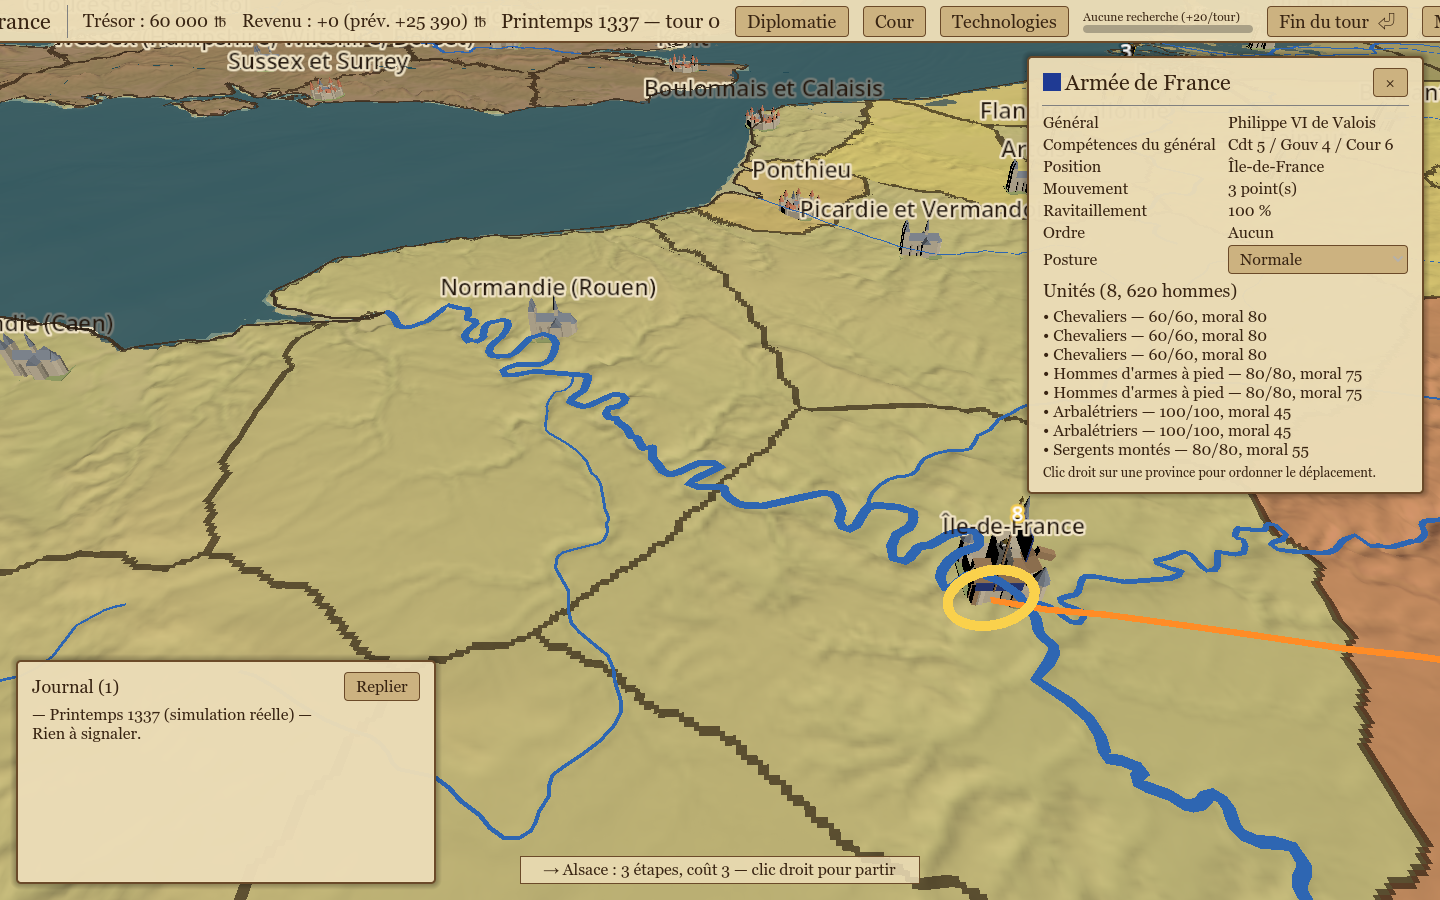
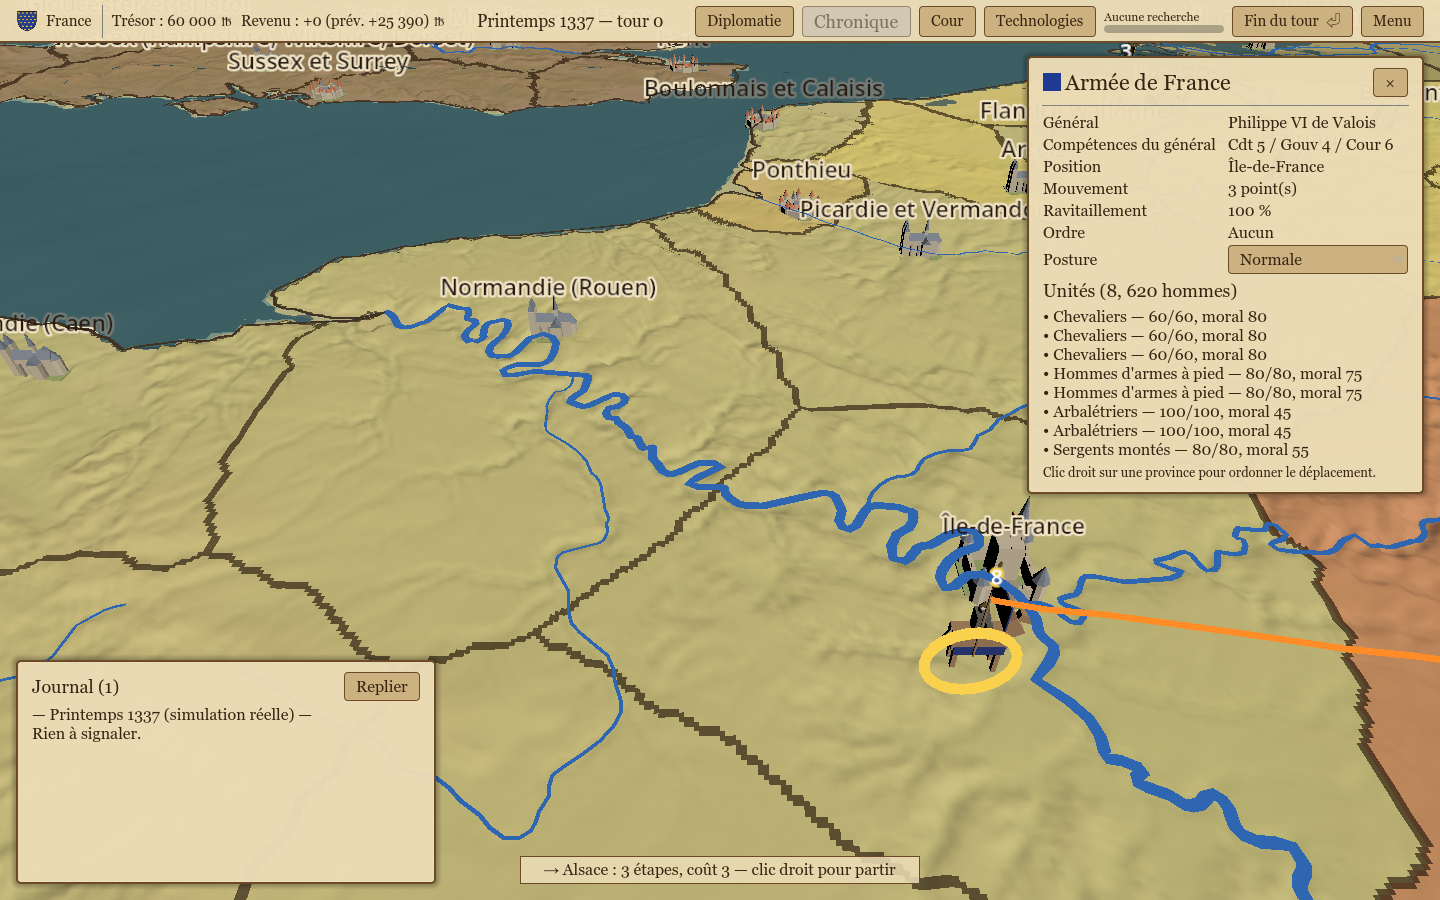
feat(map): cog model on pending sea crossings (embarked flag), armies clear of city models

Changed region(s): [[0.0, 0.0, 1.0, 0.0622], [0.625, 0.56, 0.75, 0.7778]]

diff --git a/core/crates/godot-bridge/src/campaign_sim.rs b/core/crates/godot-bridge/src/campaign_sim.rs
@@ -499,7 +499,12 @@ fn army_dict(state: &CampaignState, data: &GameData, army: &Army) -> VarDictiona
         .general
         .as_ref()
         .map_or_else(String::new, |id| state.character_name(data, id));
+    // M10 : a pending sea crossing (next step not a land neighbour) shows the cog model.
+    let embarked = army.path.first().is_some_and(|next| {
+        !sim_campaign::movement::land_neighbors(data, &army.location).contains(next)
+    });
     vdict! {
+        "embarked" => embarked,
         "faction" => army.faction.as_str(),
         "general" => army.general.as_ref().map_or("", |id| id.as_str()),
         "general_name" => general_name.as_str(),

diff --git a/docs/status.md b/docs/status.md
@@ -69,9 +69,7 @@ Dernière mise à jour : 2026-09-23 (session 3, fin de M6).
   mensuelle propre (100 $, consommée par d'autres usages ; 0,04 $ restants alors qu'un portrait coûte
   0,0455 $ réels). Relancer `uv run --project tools cent-ans assets portraits` après la remise à zéro
   mensuelle (≈ 2,25 $ pour les 49 restants) ; en attendant, la cour affiche l'écu de la faction.
-- M10 assets : les cogues ne s'affichent que si l'armée expose `embarked`/`at_sea` (pas encore fourni par
-  le pont) ; l'armée et le château de la capitale se chevauchent quand l'armée est au centroïde voisin.
-  Headless, `AudioDirector` charge les flux sans les jouer (le pilote factice fuit les lectures OGG).
+- M10 assets : headless, `AudioDirector` charge les flux sans les jouer (le pilote factice fuit les lectures OGG).
 - `get_faction_summary` renvoie 0 pour projected_income/upkeep avant le premier tour (champs mis en cache en fin de tour) ; l'interface utilise `get_faction_economy` qui calcule à la volée.
 - Les effets de bâtiments Garrison/RecruitCost/Supply sont exposés mais pas encore appliqués au gameplay ; le ciblage par classe des effets est ignoré.
 - Équilibrage (M10) : frais de cour et d'administration = 8 % du revenu + 1 % par province contrôlée (plafond 35 %) ; l'IA dépense ses trésors dormants. Sur une campagne complète 1337-1453 (464 tours, ≈ 10 s en release), les revenus des grands royaumes quadruplent (population, bâtiments, techs) et l'Empire garde un trésor élevé (≈ 12 saisons de revenu) : à surveiller.
